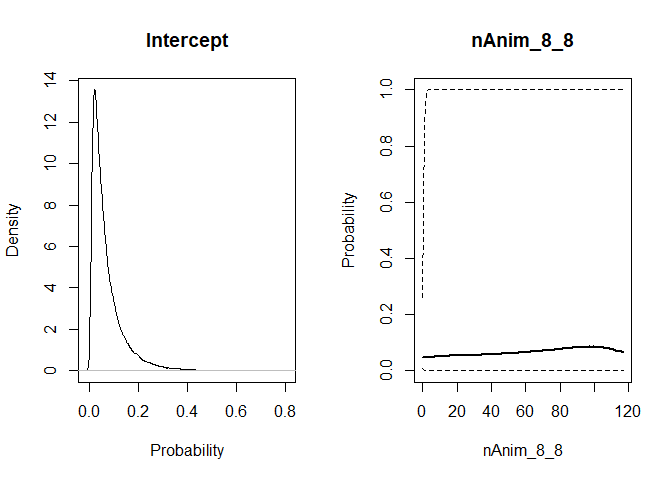
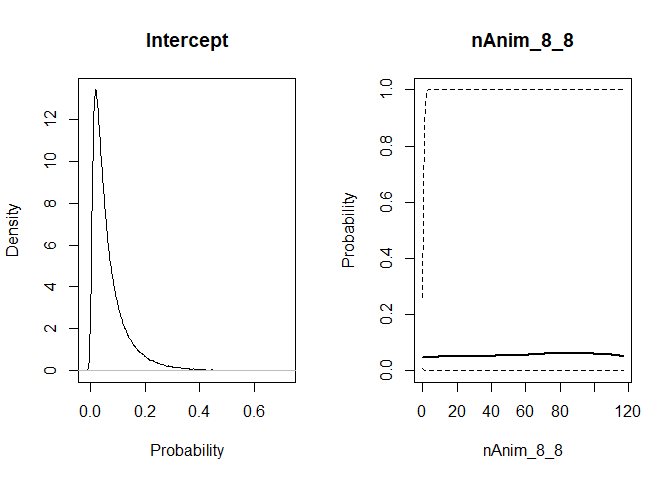
Readme updated.

diff --git a/README.md b/README.md
@@ -20,9 +20,12 @@ longitudinal data
 
 The aim of the `STOCfree` package is to predict herd level probabilities
 of freedom from infection from longitudinal data collected as part of
-surveillance programmes.
+surveillance programmes. A full description of the model principles is
+available as an
+[article](https://www.biorxiv.org/content/10.1101/2020.07.10.197426v1),
+which has not yet been peer-reviewed.
 
-It has been developped as part of the EFSA funded project [STOC
+It has been developed as part of the EFSA funded project [STOC
 free](https://www.stocfree.eu/). An overall description of the project
 can be found in a [2019 article by van Roon et
 al.](https://www.frontiersin.org/articles/10.3389/fvets.2019.00133/full)
@@ -43,7 +46,7 @@ project is to provide a framework allowing the comparison of the outputs
 generated by different surveillance programmes. This is known as
 output-based surveillance.
 
-In the STOC free project, infection by the Bovine Viral Diarrhea Virus
+In the STOC free project, infection by the Bovine Viral Diarrhoea Virus
 (BVDV) in cattle is taken as an example. A [description of BVDV
 surveillance
 programmes](https://www.sciencedirect.com/science/article/pii/S0022030220301697)
@@ -148,14 +151,15 @@ Modelling will usually consist in the following steps:
 ## Example dataset
 
 We demonstrate the use of the package by using a toy dataset called
-`herdBTM` which is included in the package. This dataset contains the
-results of tests performed in 100 herds. Two different tests are used.
-The first test is an antibody ELISA performed on bulk tank milk. When
-this test is positive, a confirmatory test with a high specificity is
-performed one month later. The result of the ELISA test is an optical
-density ratio (continuous) which is converted into a negative or
-positive test result based on a threshold of 35. The dataset looks as
-follows:
+`herdBTM` which is included in the package. These are not real data and
+should not be used to draw any conclusion regarding BVD. This dataset
+contains the results of tests performed in 100 herds. Two different
+tests are used. The first test is an antibody ELISA performed on bulk
+tank milk. When this test is positive, a confirmatory test with a high
+specificity is performed one month later. The result of the ELISA test
+is an optical density ratio (continuous) which is converted into a
+negative or positive test result based on a threshold of 35. The dataset
+looks as follows:
 
 ``` r
 head(herdBTM)
@@ -164,11 +168,11 @@ head(herdBTM)
     ## # A tibble: 6 x 6
     ##   Farm  DateOfTest   ODR Test    TestResult LocalSeroPrev
     ##   <chr> <date>     <dbl> <chr>        <dbl>         <dbl>
-    ## 1 FR001 2014-02-04  67.1 BTM_ODR          1          0.12
+    ## 1 FR001 2014-02-04  57.6 BTM_ODR          1          0.12
     ## 2 FR001 2014-03-01  NA   confirm          1          0.12
-    ## 3 FR001 2014-09-10  54.4 BTM_ODR          1          0.1 
+    ## 3 FR001 2014-09-10  66.5 BTM_ODR          1          0.1 
     ## 4 FR001 2014-10-01  NA   confirm          1          0.1 
-    ## 5 FR001 2015-02-01  47.1 BTM_ODR          1          0.08
+    ## 5 FR001 2015-02-01  52.5 BTM_ODR          1          0.08
     ## 6 FR001 2015-03-01  NA   confirm          1          0.08
 
 The columns of the dataset correspond to:
@@ -208,7 +212,7 @@ included. The subclass is used for method dispatch later on.
 class(sfd)
 ```
 
-    ## [1] "herd_ntests"   "STOCfree_data"
+    ## [1] "herd"          "STOCfree_data"
 
 A `STOCfree_data` object is in fact a list of `data.frames`. Below we
 provide a brief explanation on the content of this list.
@@ -223,19 +227,17 @@ str(sfd)
     ##  $ herd_id_corresp :'data.frame':    100 obs. of  2 variables:
     ##   ..$ Farm   : chr [1:100] "FR001" "FR002" "FR003" "FR004" ...
     ##   ..$ herd_id: int [1:100] 1 2 3 4 5 6 7 8 9 10 ...
-    ##  $ test_data       :'data.frame':    917 obs. of  5 variables:
-    ##   ..$ status_id: int [1:917] 1 2 8 9 13 14 20 21 25 26 ...
-    ##   ..$ herd_id  : num [1:917] 1 1 1 1 1 1 1 1 1 1 ...
-    ##   ..$ month_id : num [1:917] 1 2 8 9 13 14 20 21 25 26 ...
-    ##   ..$ test_id  : int [1:917] 1 2 1 2 1 2 1 2 1 2 ...
-    ##   ..$ test_res : num [1:917] 1 1 1 1 1 1 1 0 1 0 ...
-    ##  $ herd_test_data  :'data.frame':    100 obs. of  6 variables:
-    ##   ..$ herd_id     : int [1:100] 1 2 3 4 5 6 7 8 9 10 ...
-    ##   ..$ ind_i       : int [1:100] 1 34 67 100 133 166 199 232 265 298 ...
-    ##   ..$ ind_j       : int [1:100] 2 35 68 101 134 167 200 233 266 299 ...
-    ##   ..$ ind_f       : int [1:100] 32 65 98 131 164 197 230 263 296 329 ...
-    ##   ..$ ind_p       : int [1:100] 33 66 99 132 165 198 231 264 297 330 ...
-    ##   ..$ last_is_test: num [1:100] 0 1 0 1 1 1 1 1 0 0 ...
+    ##  $ test_data       :'data.frame':    924 obs. of  6 variables:
+    ##   ..$ status_id  : int [1:924] 1 2 8 9 13 14 20 21 25 26 ...
+    ##   ..$ herd_id    : num [1:924] 1 1 1 1 1 1 1 1 1 1 ...
+    ##   ..$ month_id   : num [1:924] 1 2 8 9 13 14 20 21 25 26 ...
+    ##   ..$ status_type: num [1:924] 1 2 2 2 2 2 2 2 2 2 ...
+    ##   ..$ test_id    : int [1:924] 1 2 1 2 1 2 1 2 1 2 ...
+    ##   ..$ test_res   : num [1:924] 1 1 1 1 1 1 1 0 1 0 ...
+    ##  $ herd_test_data  :'data.frame':    100 obs. of  3 variables:
+    ##   ..$ herd_id: int [1:100] 1 2 3 4 5 6 7 8 9 10 ...
+    ##   ..$ ind_i  : int [1:100] 1 34 67 100 133 166 199 232 265 298 ...
+    ##   ..$ ind_p  : int [1:100] 33 66 99 132 165 198 231 264 297 330 ...
     ##  $ test_perf_prior :'data.frame':    2 obs. of  6 variables:
     ##   ..$ test   : chr [1:2] "BTM_ODR" "confirm"
     ##   ..$ test_id: int [1:2] 1 2
@@ -243,11 +245,10 @@ str(sfd)
     ##   ..$ Se_b   : logi [1:2] NA NA
     ##   ..$ Sp_a   : logi [1:2] NA NA
     ##   ..$ Sp_b   : logi [1:2] NA NA
-    ##  $ risk_factors    :'data.frame':    1 obs. of  4 variables:
+    ##  $ risk_factors    :'data.frame':    1 obs. of  3 variables:
     ##   ..$ risk_factor: chr "Intercept"
     ##   ..$ type       : chr "intercept"
     ##   ..$ modality   : logi NA
-    ##   ..$ ref        : num 0
     ##  $ risk_factor_data:'data.frame':    3300 obs. of  4 variables:
     ##   ..$ status_id: int [1:3300] 1 2 3 4 5 6 7 8 9 10 ...
     ##   ..$ herd_id  : num [1:3300] 1 1 1 1 1 1 1 1 1 1 ...
@@ -261,7 +262,7 @@ str(sfd)
     ##  - attr(*, "month first test")= chr "2014-02"
     ##  - attr(*, "month last test")= chr "2016-10"
     ##  - attr(*, "number of risk factors")= num 0
-    ##  - attr(*, "class")= chr [1:2] "herd_ntests" "STOCfree_data"
+    ##  - attr(*, "class")= chr [1:2] "herd" "STOCfree_data"
 
 The list components are:
 
@@ -410,9 +411,9 @@ compiled_model <- compile_JAGS(sfd,
     ##    Resolving undeclared variables
     ##    Allocating nodes
     ## Graph information:
-    ##    Observed stochastic nodes: 817
+    ##    Observed stochastic nodes: 824
     ##    Unobserved stochastic nodes: 3406
-    ##    Total graph size: 22348
+    ##    Total graph size: 24481
     ## 
     ## Initializing model
 
@@ -456,32 +457,11 @@ str(samples,
     max.level = 2)
 ```
 
-    ## List of 3
-    ##  $ parameters   :Classes 'tbl_df', 'tbl' and 'data.frame':   60 obs. of  9 variables:
-    ##   ..$ .chain    : int [1:60] 1 1 1 1 1 1 1 1 1 1 ...
-    ##   ..$ .iteration: int [1:60] 1 2 3 4 5 6 7 8 9 10 ...
-    ##   ..$ .draw     : int [1:60] 1 2 3 4 5 6 7 8 9 10 ...
-    ##   ..$ Se.1      : num [1:60] 0.942 0.944 0.953 0.948 0.95 ...
-    ##   ..$ Se.2      : num [1:60] 0.859 0.889 0.879 0.865 0.85 ...
-    ##   ..$ Sp.1      : num [1:60] 0.973 0.982 0.986 0.98 0.982 ...
-    ##   ..$ Sp.2      : num [1:60] 1 1 1 1 1 ...
-    ##   ..$ tau1      : num [1:60] 0.0276 0.0326 0.0315 0.0256 0.0303 ...
-    ##   ..$ tau2      : num [1:60] 0.978 0.978 0.981 0.981 0.975 ...
-    ##  $ proba_inf    :Classes 'grouped_df', 'tbl_df', 'tbl' and 'data.frame': 6000 obs. of  6 variables:
-    ##   ..$ .chain          : int [1:6000] 1 1 1 1 1 1 1 1 1 1 ...
-    ##   ..$ .iteration      : int [1:6000] 1 1 1 1 1 1 1 1 1 1 ...
-    ##   ..$ .draw           : int [1:6000] 1 1 1 1 1 1 1 1 1 1 ...
-    ##   ..$ herd_id         : int [1:6000] 1 2 3 4 5 6 7 8 9 10 ...
-    ##   ..$ predicted_proba : num [1:6000] 0.0276 0.5016 0.0276 1 1 ...
-    ##   ..$ predicted_status: num [1:6000] 0 0 0 1 1 1 1 1 0 0 ...
-    ##   ..- attr(*, "groups")=Classes 'tbl_df', 'tbl' and 'data.frame':    100 obs. of  2 variables:
+    ## List of 2
+    ##  $ parameters: tibble [60 x 9] (S3: tbl_df/tbl/data.frame)
+    ##  $ proba_inf : tibble [6,000 x 6] (S3: grouped_df/tbl_df/tbl/data.frame)
+    ##   ..- attr(*, "groups")= tibble [100 x 2] (S3: tbl_df/tbl/data.frame)
     ##   .. ..- attr(*, ".drop")= logi TRUE
-    ##  $ choice_cutoff:'data.frame':   101 obs. of  5 variables:
-    ##   ..$ cutoff  : num [1:101] 0 0.01 0.02 0.03 0.04 0.05 0.06 0.07 0.08 0.09 ...
-    ##   ..$ pred_Se : num [1:101] 1 1 1 0.991 0.984 ...
-    ##   ..$ pred_Sp : num [1:101] 0 0.00319 0.02037 0.57069 0.93251 ...
-    ##   ..$ pred_ppv: num [1:101] 1 0.583 0.588 0.763 0.953 ...
-    ##   ..$ pred_npv: num [1:101] NaN 1 1 0.979 0.976 ...
 
 It may be easier to store these tables in separate objects.
 
@@ -632,7 +612,7 @@ intro
     ##  8 FR005 2016-04-20    17
     ##  9 FR008 2012-06-04     2
     ## 10 FR008 2010-04-30     1
-    ## # … with 1,314 more rows
+    ## # ... with 1,314 more rows
 
 This dataset contains the number of animals purchased as well as the
 dates of introduction for the 100 herds in the `herdBTM` data. Using
@@ -663,7 +643,7 @@ str(nAnim_lagged)
     ##  $ lag1: int  0 0 1 0 1 2 0 1 2 3 ...
     ##  $ lag2: int  0 1 1 2 2 2 3 3 3 3 ...
     ##  $ l   : int  0 1 0 2 1 0 3 2 1 0 ...
-    ##  $ AIC : num  351 351 351 351 351 ...
+    ##  $ AIC : num  366 365 365 365 365 ...
     ##  - attr(*, "out.attrs")=List of 2
     ##   ..$ dim     : Named int  25 25 1 1
     ##   .. ..- attr(*, "names")= chr  "lag1" "lag2" "l" "AIC"
@@ -737,21 +717,21 @@ summary(modl)
     ## glm(formula = formula, family = binomial(link = "logit"), data = data)
     ## 
     ## Deviance Residuals: 
-    ##     Min       1Q   Median       3Q      Max  
-    ## -1.4976  -0.7735  -0.7735   1.3253   1.6448  
+    ##    Min      1Q  Median      3Q     Max  
+    ## -1.631  -0.849  -0.849   1.546   1.546  
     ## 
     ## Coefficients:
     ##             Estimate Std. Error z value Pr(>|z|)    
-    ## (Intercept) -1.05356    0.13787  -7.642 2.14e-14 ***
-    ## nAnim_8_8    0.17808    0.06602   2.697  0.00699 ** 
+    ## (Intercept) -0.83502    0.13206  -6.323 2.56e-10 ***
+    ## nAnim_8_8    0.12384    0.05958   2.078   0.0377 *  
     ## ---
     ## Signif. codes:  0 '***' 0.001 '**' 0.01 '*' 0.05 '.' 0.1 ' ' 1
     ## 
     ## (Dispersion parameter for binomial family taken to be 1)
     ## 
-    ##     Null deviance: 347.40  on 292  degrees of freedom
-    ## Residual deviance: 339.08  on 291  degrees of freedom
-    ## AIC: 343.08
+    ##     Null deviance: 361.60  on 288  degrees of freedom
+    ## Residual deviance: 356.94  on 287  degrees of freedom
+    ## AIC: 360.94
     ## 
     ## Number of Fisher Scoring iterations: 4
 
@@ -802,9 +782,9 @@ surveillance. Below is the list of covariates included in the
 show_rf(sfd)
 ```
 
-    ##   risk_factor       type modality ref
-    ## 1   Intercept  intercept       NA   0
-    ## 2   nAnim_8_8 continuous       NA   0
+    ##   risk_factor       type modality
+    ## 1   Intercept  intercept       NA
+    ## 2   nAnim_8_8 continuous       NA
 
 ``` r
 sfd <- set_priors_rf(sfd,
@@ -824,9 +804,9 @@ parameters.
 show_rf(sfd)
 ```
 
-    ##   risk_factor       type modality ref mean_prior sd_prior
-    ## 1   Intercept  intercept       NA   0         -3        1
-    ## 2   nAnim_8_8 continuous       NA   0          0        2
+    ##   risk_factor       type modality mean_prior sd_prior
+    ## 1   Intercept  intercept       NA         -3        1
+    ## 2   nAnim_8_8 continuous       NA          0        2
 
 These priors can be plotted on the probability scale. The prior
 distribution for the intrcept implies that in herds buying no cows, the
